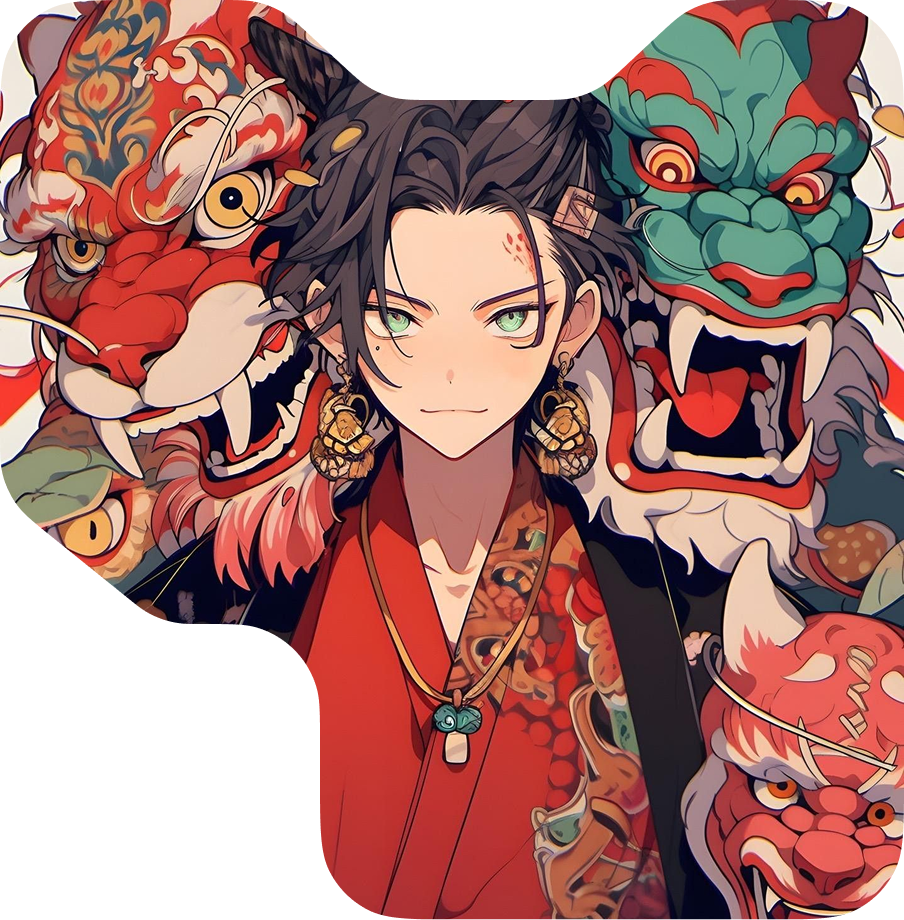
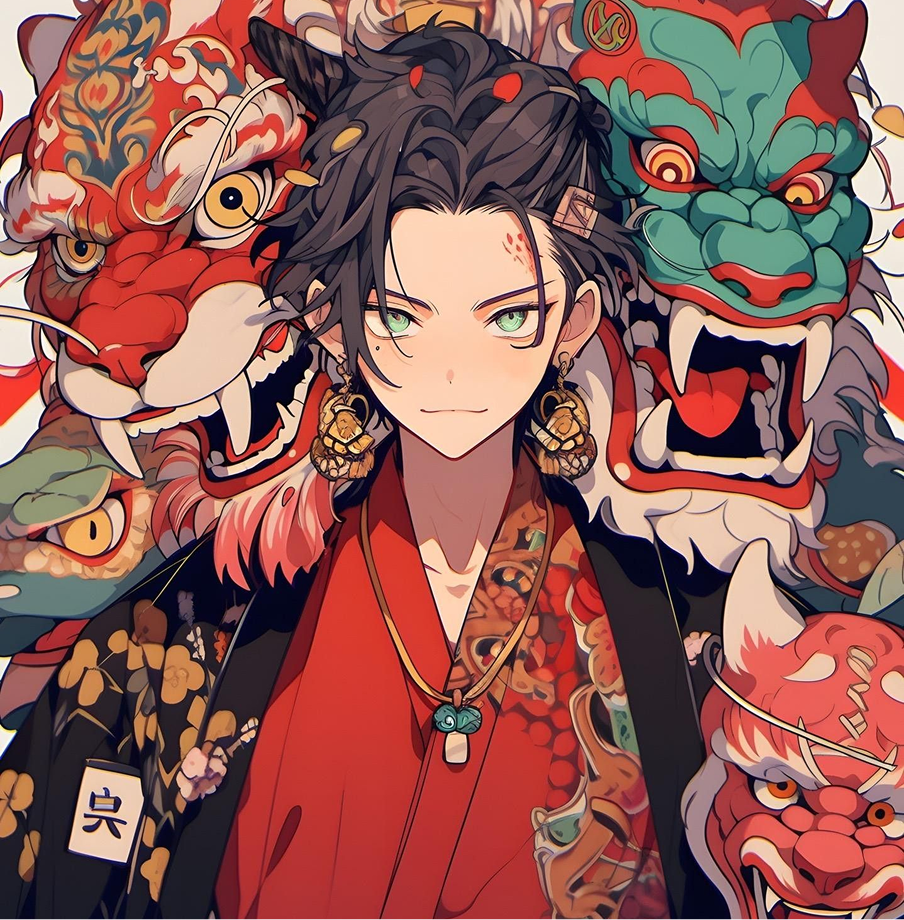
nothing

diff --git a/src/app/Components/Main.jsx b/src/app/Components/Main.jsx
@@ -3,10 +3,12 @@ import React from 'react'
 export default function Main() {
   return (
     <>
-     <div className="bg-[url('/BG.png')] h-screen bg-no-repeat bg-[length:69%_auto] bg-[position:100px_center]  ml-[40px] rounded-[80px]">
-        {/* You can add some content here */}
-        
-     </div>
+    <div className="bg-[url('/BG.png')] bg-no-repeat      bg-[center_-10px] bg-cover ">
+  {/* You can add some content here */}
+
+
+</div>
+
     </>
   )
 }

diff --git a/src/app/page.js b/src/app/page.js
@@ -4,7 +4,7 @@ import NavBar from './Components/NavBar';
 
 export default function Home() {
   return (
-    <div className="flex ...">
+    <div className="flex mt-[0px]">
   <div className="size-14 flex-none ..."><NavBar></NavBar></div>
   <div className="size-14 grow ...">
     <Main></Main>
